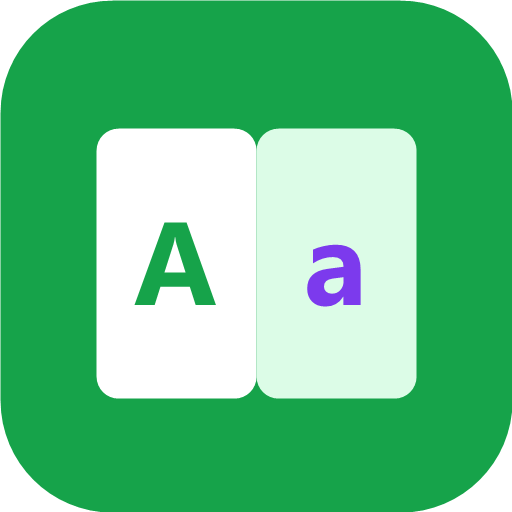
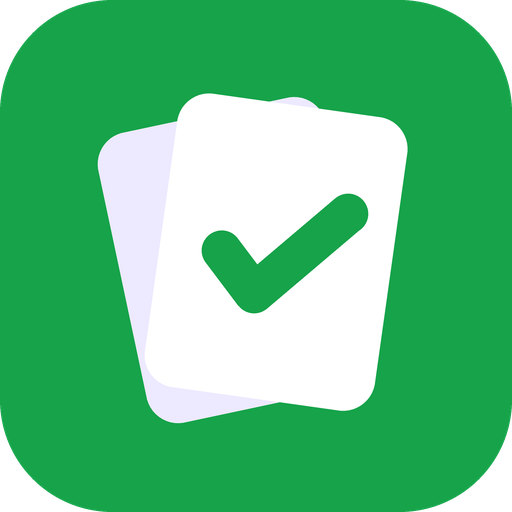
Rename app to Study Cards and rework navigation for subjects
- Sidebar: subject list with today's card counts, then the selected
  subject's sections (Dziś, Nauka, Karty, Dodaj materiały); settings at the bottom
- Mobile: subject switcher in a top bar; bottom bar with the same five items
- Dashboard reminds about cards due in other subjects
- "Dodaj materiały" is a top-level item and follows the selected subject
- New name, card-stack icon, manifest and README

diff --git a/app.js b/app.js
@@ -1,4 +1,4 @@
-/* Academic Words — nauka formalnego słownictwa do Academic Writing.
+/* Study Cards — nauka z fiszek i powtórek SRS: Academic English, biologia i kolejne przedmioty.
  * Vanilla JS, bez build stepu. Postęp w localStorage. */
 'use strict';
 (function () {
@@ -1318,19 +1318,56 @@
     route();
   }
 
-  // Przełącznik przedmiotu; withCounts: liczba kart do zrobienia dziś przy każdym przedmiocie.
-  function subjectPicker(withCounts) {
+  // Ile kart z przedmiotu czeka dziś (powtórki + nowe w ramach limitu).
+  function todoCount(subject) {
+    const c = srsCounts(subjectPool(subject), subject);
+    return c.due + c.newToday;
+  }
+
+  function subjectItem(key, todo, onPick) {
+    const subj = SUBJECTS[key];
+    const active = key === currentSubject();
+    return h('button', { class: 'subj-item' + (active ? ' active' : ''), 'aria-current': active ? 'true' : null, onClick: onPick },
+      h('span', { class: 'subj-ico', 'aria-hidden': 'true' }, subj.icon),
+      h('span', { class: 'subj-name' }, subj.label),
+      todo ? h('span', { class: 'chip-count', title: 'Do zrobienia dziś' }, String(todo)) : null);
+  }
+
+  // Menu: lista przedmiotów w menu bocznym (desktop) i rozwijany przełącznik w górnym pasku (telefon).
+  function renderNav() {
     const cur = currentSubject();
-    return h('div', { class: 'chips subject-picker', role: 'group', 'aria-label': 'Przedmiot' },
-      Object.entries(SUBJECTS).map(([k, subj]) => {
-        let badge = null;
-        if (withCounts) {
-          const c = srsCounts(subjectPool(k), k);
-          if (c.due + c.newToday) badge = h('span', { class: 'chip-count', title: 'Do zrobienia dziś' }, String(c.due + c.newToday));
-        }
-        return h('button', { class: 'chip' + (k === cur ? ' active' : ''), 'aria-pressed': String(k === cur), onClick: () => setSubject(k) },
-          `${subj.icon} ${subj.label}`, badge);
-      }));
+    const subj = SUBJECTS[cur];
+    const todo = Object.fromEntries(Object.keys(SUBJECTS).map((k) => [k, todoCount(k)]));
+
+    const list = document.getElementById('nav-subjects');
+    list.replaceChildren(h('div', { class: 'nav-heading' }, 'Przedmioty'),
+      ...Object.keys(SUBJECTS).map((k) => subjectItem(k, todo[k], () => setSubject(k))));
+    document.getElementById('nav-section').textContent = `${subj.icon} ${subj.label}`;
+
+    const sw = document.getElementById('subj-switch');
+    sw.classList.remove('open');
+    const others = Object.keys(SUBJECTS).filter((k) => k !== cur).reduce((n, k) => n + todo[k], 0);
+    const btn = h('button', { class: 'subj-btn', 'aria-haspopup': 'true', 'aria-expanded': 'false', title: 'Zmień przedmiot',
+      onClick: (e) => { e.stopPropagation(); const open = sw.classList.toggle('open'); btn.setAttribute('aria-expanded', String(open)); } },
+      h('span', { 'aria-hidden': 'true' }, subj.icon), h('span', { class: 'name' }, subj.label),
+      others ? h('span', { class: 'subj-dot', title: `W innych przedmiotach czeka dziś ${others} ${plural(others, 'karta', 'karty', 'kart')}` }) : null,
+      h('span', { class: 'caret', 'aria-hidden': 'true' }, '▾'));
+    sw.replaceChildren(btn, h('div', { class: 'subj-menu', role: 'menu' },
+      h('div', { class: 'subj-menu-title' }, 'Przedmiot'),
+      ...Object.keys(SUBJECTS).map((k) => subjectItem(k, todo[k], () => { sw.classList.remove('open'); setSubject(k); }))));
+  }
+  document.addEventListener('click', (e) => {
+    const sw = document.getElementById('subj-switch');
+    if (sw && !sw.contains(e.target)) sw.classList.remove('open');
+  });
+
+  // Na panelu: przypomnienie o kartach na dziś w pozostałych przedmiotach (kliknięcie przełącza przedmiot).
+  function otherSubjectsHint() {
+    const rest = Object.keys(SUBJECTS).filter((k) => k !== currentSubject()).map((k) => [k, todoCount(k)]).filter(([, n]) => n);
+    if (!rest.length) return null;
+    return h('div', { class: 'chips', style: 'margin:-4px 0 16px' },
+      h('span', { class: 'muted small', style: 'align-self:center' }, 'Na dziś także:'),
+      rest.map(([k, n]) => h('button', { class: 'chip', onClick: () => setSubject(k) }, `${SUBJECTS[k].icon} ${SUBJECTS[k].label} · ${n}`)));
   }
 
   function renderDashboard(view) {
@@ -1371,7 +1408,7 @@
             ? h('a', { href: '#/settings', class: 'small' }, '☁ Włącz synchronizację między urządzeniami')
             : null),
         st ? h('div', { class: 'streak', title: 'Dni nauki z rzędu' }, `🔥 ${st} ${plural(st, 'dzień', 'dni', 'dni')}`) : null),
-      subjectPicker(true),
+      otherSubjectsHint(),
       pool.length ? null : h('div', { class: 'card' },
         h('h2', null, `${subj.icon} ${subj.label}: jeszcze brak kart`),
         h('p', { class: 'muted small' }, 'Dodaj materiały z lekcji. Najszybciej przez czat AI: wklejasz handout, a czat przygotowuje karty.'),
@@ -1457,7 +1494,6 @@
 
     view.replaceChildren(
       h('h1', null, 'Nauka'),
-      subjectPicker(false),
       h('div', { class: 'card' },
         h('div', { class: 'field' }, h('span', { class: 'label' }, 'Tryb'),
           seg([['quick', '⚡ Szybka sesja'], ['srs', '🧠 Powtórki SRS']], cfg.mode, (v) => { cfg.mode = v; persist(); })),
@@ -1601,8 +1637,7 @@
       options.map(([v, l]) => h('option', { value: v }, l)));
 
     view.replaceChildren(
-      h('h1', null, 'Słownik'),
-      subjectPicker(false),
+      h('h1', null, 'Karty'),
       h('div', { class: 'filters' },
         search,
         sel('category', [['all', 'Wszystkie kategorie'], ...(subjectPool().some((it) => it._custom) ? [['custom', '⭐ Moje materiały']] : []),
@@ -1642,7 +1677,7 @@
         h('h2', null, '📚 Moje materiały'),
         h('p', { class: 'muted small' }, state.customItems.length
           ? `Masz ${state.customItems.length} ${plural(state.customItems.length, 'własny wpis', 'własne wpisy', 'własnych wpisów')}. Synchronizują się razem z postępem.`
-          : 'Dodaj własne słownictwo z pliku JSON, wklejonego tekstu albo pojedynczo — bez edytowania vocabulary.json.'),
+          : 'Dodaj własne karty z czatu AI, pliku JSON, wklejonego tekstu albo pojedynczo.'),
         h('a', { class: 'btn btn-primary', href: '#/materials' }, '➕ Dodaj / zarządzaj materiałami')),
       syncCard,
       h('div', { class: 'card' },
@@ -1657,7 +1692,7 @@
       h('div', { class: 'card' },
         h('h2', null, 'O aplikacji'),
         h('p', { class: 'muted small' },
-          `Słownik: ${VOCAB.length} wpisów${VOCAB_META.updated ? ` (aktualizacja ${VOCAB_META.updated})` : ''}. `,
+          `Karty: ${VOCAB.length}${VOCAB_META.updated ? ` (aktualizacja ${VOCAB_META.updated})` : ''}. `,
           'Aplikacja działa offline po pierwszym uruchomieniu i można ją zainstalować na telefonie („Dodaj do ekranu głównego”).'),
         h('dl', { class: 'kv small' }, Object.entries(SUBJECTS).flatMap(([sk, subj]) => subj.types
           .map((k) => [k, VOCAB.filter((i) => i.subject === sk && i.type === k).length]).filter(([, n]) => n)
@@ -1665,8 +1700,8 @@
   }
 
   function exportProgress() {
-    const blob = new Blob([JSON.stringify({ app: 'academic-words', exported: new Date().toISOString(), state }, null, 1)], { type: 'application/json' });
-    const a = h('a', { href: URL.createObjectURL(blob), download: `academic-words-postep-${today()}.json` });
+    const blob = new Blob([JSON.stringify({ app: 'study-cards', exported: new Date().toISOString(), state }, null, 1)], { type: 'application/json' });
+    const a = h('a', { href: URL.createObjectURL(blob), download: `study-cards-postep-${today()}.json` });
     document.body.append(a);
     a.click();
     setTimeout(() => { URL.revokeObjectURL(a.href); a.remove(); }, 500);
@@ -1788,7 +1823,7 @@
     const seen = new Map();
     for (const it of VOCAB) {
       const k = dupKey(it);
-      if (k && !seen.has(k)) seen.set(k, it._custom ? `już w Twoich materiałach („${it.source}”)` : 'już w słowniku');
+      if (k && !seen.has(k)) seen.set(k, it._custom ? `już w Twoich materiałach („${it.source}”)` : 'już jest w kartach');
     }
     for (const r of prev ? prev.rows : []) {
       const k = !r.errors.length && dupKey(r.item);
@@ -1873,8 +1908,9 @@
     const previewCard = h('div', { class: 'card', id: 'mat-preview' });
     const manageCard = h('div', { class: 'card' });
     if (matUi.tab === 'ai' && !window.AW_AI) matUi.tab = 'paste';
-    if (!matUi.subject) setMatSubject(currentSubject());
-    const subjSel = h('select', { id: 'm-subject', onChange: (e) => { setMatSubject(e.target.value); drawPanel(); } },
+    // Materiały dodaje się do przedmiotu wybranego w menu; zmiana tutaj przełącza przedmiot w całej aplikacji.
+    if (matUi.subject !== currentSubject()) setMatSubject(currentSubject());
+    const subjSel = h('select', { id: 'm-subject', onChange: (e) => setSubject(e.target.value) },
       optionEls(Object.fromEntries(Object.entries(SUBJECTS).map(([k, sj]) => [k, `${sj.icon} ${sj.label}`])), matUi.subject));
 
     const showPreview = () => { drawPreview(); previewCard.scrollIntoView({ behavior: 'smooth', block: 'start' }); };
@@ -1905,7 +1941,7 @@
         if (ids.length) {
           previewCard.replaceChildren(
             h('h2', null, `✅ Dodano ${ids.length} ${plural(ids.length, 'wpis', 'wpisy', 'wpisów')}`),
-            h('p', { class: 'muted small' }, `Paczka „${lastAdded.source}”. Nowe słowa są już w słowniku, w sesjach i w powtórkach (jako nowe, przed resztą słownika).`),
+            h('p', { class: 'muted small' }, `Paczka „${lastAdded.source}”. Nowe karty są już w Kartach, w sesjach i w powtórkach (jako nowe, przed resztą).`),
             h('div', { class: 'row' },
               h('button', { class: 'btn btn-primary', onClick: () => learnItems(ids) }, '🎯 Ucz się ich teraz'),
               h('button', { class: 'btn btn-ghost', onClick: () => { lastAdded = null; drawPreview(); } }, 'Zamknij')));
@@ -1950,7 +1986,7 @@
       }
       const title = h('h2', null, `📚 Moje materiały${state.customItems.length ? ` (${state.customItems.length})` : ''}`);
       if (!groups.size) {
-        manageCard.replaceChildren(title, h('p', { class: 'muted small' }, 'Nie masz jeszcze własnych materiałów. Dodane wpisy trafią do sesji, powtórek i statystyk kategorii tak jak reszta słownika.'));
+        manageCard.replaceChildren(title, h('p', { class: 'muted small' }, 'Nie masz jeszcze własnych materiałów. Dodane wpisy trafią do sesji, powtórek i statystyk kategorii tak jak pozostałe karty.'));
         return;
       }
       const del = (ids, what) => { if (removeCustom(ids, what)) { drawManage(); drawPreview(); } };
@@ -1982,7 +2018,6 @@
     }
 
     view.replaceChildren(
-      h('a', { class: 'back-link', href: '#/settings' }, '← Ustawienia'),
       h('h1', null, 'Dodaj materiały'),
       h('p', { class: 'muted' }, 'Nowe karty bez edytowania plików aplikacji. Każdy import kończy się podglądem, a dopiero potem zapisem.'),
       h('div', { class: 'card' },
@@ -2418,7 +2453,7 @@
   // ===================================================================
   let currentRoute = '';
   const ROUTES = { dashboard: renderDashboard, learn: renderLearn, browse: renderBrowse, settings: renderSettings, session: renderSessionView, summary: renderSummary, materials: renderMaterials };
-  const NAV_FOR = { session: 'learn', summary: 'learn', materials: 'settings' };
+  const NAV_FOR = { session: 'learn', summary: 'learn' };
 
   function route() {
     const name = (location.hash.replace(/^#\/?/, '') || 'dashboard').split('?')[0];
@@ -2430,6 +2465,7 @@
     view.classList.remove('flash-ok', 'flash-bad');
     document.body.classList.toggle('in-session', key === 'session');
     document.querySelectorAll('.nav a').forEach((a) => a.classList.toggle('active', a.dataset.route === (NAV_FOR[key] || key)));
+    if (key !== 'session') renderNav();
     ROUTES[key](view);
     window.scrollTo(0, 0);
   }

diff --git a/style.css b/style.css
@@ -118,15 +118,52 @@ button, input, select, textarea { font: inherit; color: inherit; }
 }
 .nav a.active { color: var(--primary); background: var(--primary-soft); }
 .nav-ico { font-size: 1.3rem; line-height: 1; }
-.nav-brand { display: none; }
-body.in-session .nav { display: none; }
+.nav-brand, .nav-subjects, .nav-section, .lbl-long { display: none; }
+body.in-session .nav, body.in-session .topbar { display: none; }
 body.in-session .view { padding-bottom: 24px; }
+
+/* Górny pasek (telefon): nazwa aplikacji i przełącznik przedmiotu */
+.topbar {
+  position: sticky; top: 0; z-index: 15;
+  display: flex; align-items: center; gap: 10px;
+  padding: calc(8px + env(safe-area-inset-top)) 16px 8px;
+  background: var(--surface); border-bottom: 1px solid var(--border);
+}
+.topbar-brand { display: flex; align-items: center; gap: 8px; font-weight: 800; white-space: nowrap; }
+.subj-switch { position: relative; margin-left: auto; min-width: 0; }
+.subj-btn {
+  display: inline-flex; align-items: center; gap: 6px; max-width: 100%;
+  border: 1.5px solid var(--border); background: var(--surface); color: var(--text);
+  border-radius: 999px; padding: 6px 12px; font-weight: 700; cursor: pointer;
+}
+.subj-btn .name { overflow: hidden; text-overflow: ellipsis; white-space: nowrap; }
+.subj-btn .caret { color: var(--muted); font-size: .8rem; }
+.subj-dot { width: 8px; height: 8px; border-radius: 50%; background: var(--accent); flex: none; }
+.subj-menu {
+  position: absolute; right: 0; top: calc(100% + 6px); min-width: 250px;
+  background: var(--surface); border: 1px solid var(--border); border-radius: 14px;
+  box-shadow: var(--shadow); padding: 6px; display: none;
+}
+.subj-switch.open .subj-menu { display: block; }
+.subj-menu-title { font-size: .72rem; font-weight: 800; letter-spacing: .06em; text-transform: uppercase; color: var(--muted); padding: 6px 12px 4px; }
+
+/* Wiersz przedmiotu (menu na telefonie i lista w menu bocznym) */
+.subj-item {
+  display: flex; align-items: center; gap: 8px; width: 100%;
+  padding: 10px; border: 0; background: none; border-radius: 10px; font-size: .93rem;
+  color: var(--text); font-weight: 600; text-align: left; cursor: pointer;
+}
+.subj-item:hover { background: var(--surface-2); }
+.subj-item.active { background: var(--surface-2); font-weight: 800; box-shadow: inset 3px 0 0 var(--primary); }
+.subj-name { min-width: 0; overflow: hidden; text-overflow: ellipsis; white-space: nowrap; }
+.subj-item .chip-count { margin-left: auto; }
+.subj-ico { font-size: 1.15rem; line-height: 1; }
 
 @media (min-width: 900px) {
   .app { flex-direction: row; }
   .nav {
     position: sticky; top: 0; bottom: auto; height: 100vh;
-    width: 232px; flex-direction: column; justify-content: flex-start; gap: 4px;
+    width: 248px; flex-direction: column; justify-content: flex-start; gap: 4px;
     border-top: 0; border-right: 1px solid var(--border);
     padding: 20px 14px;
   }
@@ -135,6 +172,13 @@ body.in-session .view { padding-bottom: 24px; }
     display: flex; align-items: center; gap: 10px;
     font-weight: 800; font-size: 1.05rem; padding: 4px 8px 18px;
   }
+  .topbar { display: none; }
+  .nav-subjects { display: flex; flex-direction: column; gap: 2px; margin-bottom: 12px; padding-bottom: 12px; border-bottom: 1px solid var(--border); }
+  .nav-section { display: block; }
+  .nav-heading { font-size: .72rem; font-weight: 800; letter-spacing: .06em; text-transform: uppercase; color: var(--muted); padding: 4px 14px 6px; }
+  .lbl-long { display: inline; }
+  .lbl-short { display: none; }
+  .nav-settings { margin-top: auto; }
   .view { padding: 32px 32px 48px; }
   body.in-session .nav { display: none; }
 }
@@ -185,8 +229,6 @@ body.in-session .view { padding-bottom: 24px; }
   cursor: pointer;
 }
 .chip.active { border-color: var(--primary); background: var(--primary-soft); color: var(--primary-strong); }
-.subject-picker { margin-bottom: 16px; }
-.subject-picker .chip { display: inline-flex; align-items: center; gap: 6px; padding: 8px 14px; font-size: .95rem; }
 .chip-count {
   min-width: 20px; padding: 1px 6px; border-radius: 999px; background: var(--accent); color: #fff;
   font-size: .75rem; font-weight: 700; text-align: center;

diff --git a/index.html b/index.html
@@ -3,15 +3,15 @@
 <head>
   <meta charset="utf-8">
   <meta name="viewport" content="width=device-width, initial-scale=1, viewport-fit=cover">
-  <title>Academic Words</title>
-  <meta name="description" content="Nauka formalnego słownictwa do Academic Writing (IB).">
+  <title>Study Cards</title>
+  <meta name="description" content="Nauka z fiszek i powtórek: Academic English, biologia i kolejne przedmioty.">
   <meta name="theme-color" content="#16a34a">
   <link rel="manifest" href="manifest.json">
   <link rel="icon" href="icons/icon.svg" type="image/svg+xml">
   <link rel="apple-touch-icon" href="icons/apple-touch-icon.png">
   <meta name="apple-mobile-web-app-capable" content="yes">
   <meta name="apple-mobile-web-app-status-bar-style" content="default">
-  <meta name="apple-mobile-web-app-title" content="Academic Words">
+  <meta name="apple-mobile-web-app-title" content="Study Cards">
   <link rel="stylesheet" href="style.css">
   <script>
     // Apply saved theme before first paint to avoid a flash.
@@ -23,18 +23,28 @@
 </head>
 <body>
   <div class="app">
+    <header class="topbar">
+      <div class="topbar-brand">
+        <img src="icons/icon.svg" alt="" width="28" height="28">
+        <span>Study Cards</span>
+      </div>
+      <div class="subj-switch" id="subj-switch"></div>
+    </header>
     <nav class="nav" aria-label="Nawigacja główna">
       <div class="nav-brand">
         <img src="icons/icon.svg" alt="" width="36" height="36">
-        <span>Academic Words</span>
+        <span>Study Cards</span>
       </div>
-      <a href="#/dashboard" data-route="dashboard"><span class="nav-ico" aria-hidden="true">🏠</span><span>Panel</span></a>
+      <div class="nav-subjects" id="nav-subjects"></div>
+      <div class="nav-heading nav-section" id="nav-section"></div>
+      <a href="#/dashboard" data-route="dashboard"><span class="nav-ico" aria-hidden="true">🏠</span><span>Dziś</span></a>
       <a href="#/learn" data-route="learn"><span class="nav-ico" aria-hidden="true">🎯</span><span>Nauka</span></a>
-      <a href="#/browse" data-route="browse"><span class="nav-ico" aria-hidden="true">📖</span><span>Słownik</span></a>
-      <a href="#/settings" data-route="settings"><span class="nav-ico" aria-hidden="true">⚙</span><span>Ustawienia</span></a>
+      <a href="#/browse" data-route="browse"><span class="nav-ico" aria-hidden="true">📖</span><span>Karty</span></a>
+      <a href="#/materials" data-route="materials"><span class="nav-ico" aria-hidden="true">➕</span><span class="lbl-short">Dodaj</span><span class="lbl-long">Dodaj materiały</span></a>
+      <a href="#/settings" data-route="settings" class="nav-settings"><span class="nav-ico" aria-hidden="true">⚙</span><span>Ustawienia</span></a>
     </nav>
     <main id="view" class="view" tabindex="-1">
-      <div class="loading">Ładowanie słownictwa…</div>
+      <div class="loading">Ładowanie…</div>
     </main>
   </div>
   <div id="toast" class="toast" role="status" aria-live="polite"></div>

diff --git a/ai-import.js b/ai-import.js
@@ -1,4 +1,4 @@
-/* Academic Words — import materiałów przez zewnętrzny czat AI (Copilot, ChatGPT, Claude…).
+/* Study Cards — import materiałów przez zewnętrzny czat AI (Copilot, ChatGPT, Claude…).
  * Samodzielny moduł bez zależności: prompt do skopiowania + tolerancyjny parser odpowiedzi.
  * Użycie w aplikacji: window.AW_AI.promptFor(przedmiot), window.AW_AI.copilotUrl, window.AW_AI.parseReply(text). */
 'use strict';

diff --git a/sw.js b/sw.js
@@ -1,6 +1,6 @@
 // Service worker: network-first (zawsze świeże pliki online), cache jako zapas offline.
 // Po zmianie listy plików podbij numer wersji.
-const CACHE = 'academic-words-v5';
+const CACHE = 'study-cards-v6';
 const ASSETS = [
   './',
   './index.html',

diff --git a/README.md b/README.md
@@ -1,6 +1,7 @@
-# Academic Words
+# Study Cards
 
-Aplikacja do nauki formalnego słownictwa do **Academic Writing** (IB Pre-DP), w stylu Duolingo.
+Aplikacja do nauki z fiszek i powtórek SRS, w stylu Duolingo. Przedmioty: **Academic English** (formalne słownictwo do Academic Writing, IB Pre-DP) i **Biology**; kolejne dodaje się w kodzie (sekcja *Przedmioty*).
+Dawniej *Academic Words*; adres strony i repozytorium zostały bez zmian, żeby zainstalowane aplikacje działały dalej.
 Statyczna strona (HTML + CSS + vanilla JS), bez backendu i bez build stepu. Postęp zapisuje się w `localStorage`. Działa offline i można ją zainstalować na telefonie (PWA).
 
 ## Co jest w środku
@@ -26,7 +27,7 @@ Statyczna strona (HTML + CSS + vanilla JS), bez backendu i bez build stepu. Post
 
 ## Przedmioty
 
-Aplikacja obsługuje kilka przedmiotów: **Academic English** i **Biology**. Przełącznik przedmiotu jest na Panelu, w Nauce i w Słowniku; przy każdym przedmiocie Panel pokazuje, ile kart jest do zrobienia dziś.
+Aplikacja obsługuje kilka przedmiotów: **Academic English** i **Biology**. Menu boczne (na komputerze) ma listę przedmiotów z liczbą kart do zrobienia dziś, a pod nią sekcję wybranego przedmiotu: *Dziś*, *Nauka*, *Karty*, *Dodaj materiały*; *Ustawienia* są na dole. Na telefonie przedmiot zmienia się przyciskiem w górnym pasku, a dolny pasek ma te same pozycje. Panel *Dziś* przypomina o kartach czekających w innych przedmiotach.
 
 - Każdy przedmiot ma własne kategorie, statystyki i dzienny limit nowych kart (ustawienie *Nowe słowa dziennie* działa osobno w każdym przedmiocie). Powtórki SRS i sesje biorą karty tylko z wybranego przedmiotu.
 - Rejestr przedmiotów to `SUBJECTS` w `app.js` (plik z kartami bazowymi, dozwolone typy, domyślna kategoria). Kategorie przedmiotu to wpisy w `CATEGORIES` z polem `subject` (Academic English ich nie podaje, to przedmiot domyślny).
@@ -62,7 +63,7 @@ git push
 
 Są dwie drogi:
 
-- **W aplikacji** (bez edytowania plików i bez pusha): *Ustawienia → Moje materiały* albo *Panel → Dodaj własne materiały*. Słowa trafiają do Twojego postępu i synchronizują się między urządzeniami.
+- **W aplikacji** (bez edytowania plików i bez pusha): *Dodaj materiały* w menu. Karty trafiają do Twojego postępu i synchronizują się między urządzeniami.
 - **Przez `vocabulary.json`**: słowa trafiają do wszystkich użytkowników aplikacji.
 
 ### W aplikacji (własne materiały)
@@ -94,12 +95,12 @@ Każdy import kończy się **podglądem**: wpisy z błędami (brak wymaganego po
 
 Szczegóły techniczne:
 - Wpisy trafiają do `state.customItems` z `id` `c-<znacznik czasu>-<nr>`, polem `source` (nazwa pliku, nazwa paczki albo „ręcznie”) i `addedAt`. Przechodzą tę samą walidację co `vocabulary.json` (`itemErrors()` / `prepareItem()` w `app.js`).
-- Nowe słowa od razu są w słowniku, sesjach i statystykach kategorii. Powtórki SRS wprowadzają je jako *nowe* przed resztą słownika (w ramach dziennego limitu nowych słów). Filtr *⭐ Moje materiały* jest w Nauce, Słowniku i na Panelu.
+- Nowe karty od razu są w Kartach, sesjach i statystykach kategorii. Powtórki SRS wprowadzają je jako *nowe* przed resztą (w ramach dziennego limitu nowych słów). Filtr *⭐ Moje materiały* jest w Nauce, Kartach i na panelu *Dziś*.
 - *Moje materiały* grupują wpisy według źródła. Można usunąć pojedynczy wpis albo całą paczkę. Usunięcie kasuje też postęp tych słów i zapisuje id w `state.deletedCustom` (tombstones), więc synchronizacja nie przywróci ich z innego urządzenia.
 
 ### Przez vocabulary.json
 
-1. Wrzuć handout (.doc/.docx lub zdjęcie) do Claude z prośbą: *„Wyciągnij słownictwo do vocabulary.json w formacie appki Academic Words”* i dołącz przykładowy wpis z sekcji niżej.
+1. Wrzuć handout (.doc/.docx lub zdjęcie) do Claude z prośbą: *„Wyciągnij słownictwo do vocabulary.json w formacie appki Study Cards”* i dołącz przykładowy wpis z sekcji niżej.
 2. Dopisz nowe wpisy na końcu tablicy `items` w `vocabulary.json`. Każdy `id` musi być unikalny (np. kolejny `r037`, `av042`, `awl571`, `sr008`, `h013`).
 3. Zmień pole `updated` na dzisiejszą datę, zrób commit i push — GitHub Pages odświeży stronę, a nowe słowa pojawią się w aplikacji (postęp nauki zostaje).
 
@@ -166,7 +167,7 @@ Konfiguracja jednorazowa w panelu Supabase:
 1. **Tabela:** *SQL Editor → New query* → wklej [`supabase/schema.sql`](supabase/schema.sql) → *Run*.
 2. **Kod w mailu:** *Authentication → Emails* → szablony **Magic Link** i **Confirm signup**: dodaj do treści kod, np.
    ```html
-   <h2>Academic Words</h2>
+   <h2>Study Cards</h2>
    <p>Twój kod logowania: <strong>{{ .Token }}</strong></p>
    ```
 3. **Adres strony:** *Authentication → URL Configuration* → *Site URL* = `https://kalomsconsulting-lab.github.io/academic-words/`; ten sam adres dodaj w *Redirect URLs* (oraz `http://localhost:8765` do testów).
